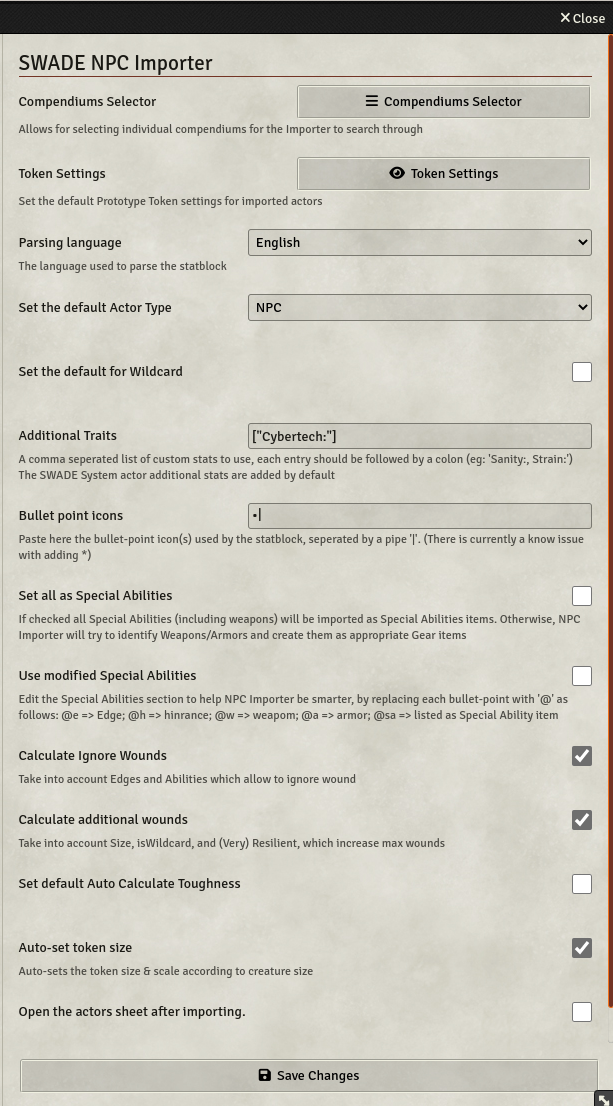
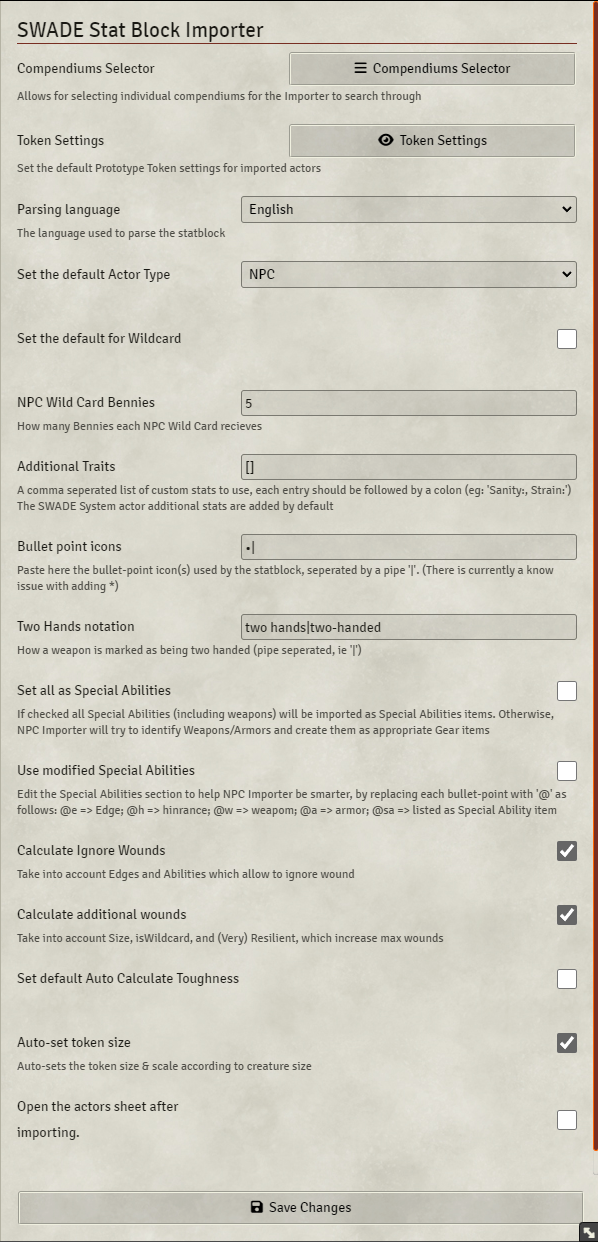
moved PPs location (#131)
* mvoed PPs location

* #130 added npc wild card bennies amount setting

Changed region(s): [[0.0, 0.0, 1.0, 1.0], [0.9331, 0.6763, 1.0, 0.953]]

diff --git a/scripts/settings/npcImporterSettings.js b/scripts/settings/npcImporterSettings.js
@@ -18,6 +18,7 @@ import {
   settingAutoCalcSize,
   settingallAsSpecialAbilities,
   twoHandsNotaiton,
+  settingNumberOfBennies,
 } from '../global.js';
 import SelectCompendiums from './selectCompendiums.js';
 import TokenSettings from './tokenSettings.js';
@@ -101,6 +102,14 @@ export class NpcImporterSettings {
       scope: 'world',
       type: Boolean,
       default: false,
+    });
+    game.settings.register(thisModule, settingNumberOfBennies, {
+      name: game.i18n.localize('npcImporter.settings.NumberOfBennies'),
+      hint: game.i18n.localize('npcImporter.settings.NumberOfBenniesHint'),
+      config: true,
+      scope: 'world',
+      type: Number,
+      default: 2,
     });
     game.settings.register(thisModule, settingAdditionalTraits, {
       name: game.i18n.localize('npcImporter.settings.AdditionalTraits'),

diff --git a/scripts/dataBuilders/buildActorData.js b/scripts/dataBuilders/buildActorData.js
@@ -31,8 +31,10 @@ export const buildActorData = async function (
     autoCalcToughness: getModuleSettings(global.settingAutoCalcToughness),
   };
   system.powerPoints = {
-    value: parsedData.PowerPoints,
-    max: parsedData.PowerPoints,
+    general: {
+      value: parsedData.PowerPoints,
+      max: parsedData.PowerPoints,
+    },
   };
   system.wounds = {
     max: calculateWoundMod(
@@ -77,7 +79,7 @@ async function buildAdditionalStats(parsedData) {
 function calculateBennies(isWildCard, actorType) {
   let numOfBennies = 0;
   if (isWildCard && actorType === 'npc') {
-    numOfBennies = 2;
+    numOfBennies = getModuleSettings(global.settingNumberOfBennies);
   } else if (isWildCard && actorType === 'character') {
     numOfBennies = 3;
   }

diff --git a/scripts/global.js b/scripts/global.js
@@ -21,6 +21,7 @@ export const settingAutoCalcToughness = 'autoCalcToughness';
 export const settingAutoCalcSize = 'autoCalcSize';
 export const settingallAsSpecialAbilities = 'allAsSpecialAbilities';
 export const twoHandsNotaiton = 'twoHandsNotaiton';
+export const settingNumberOfBennies = 'numberOfBennies';
 export var allPacks = [];
 
 // global logger
